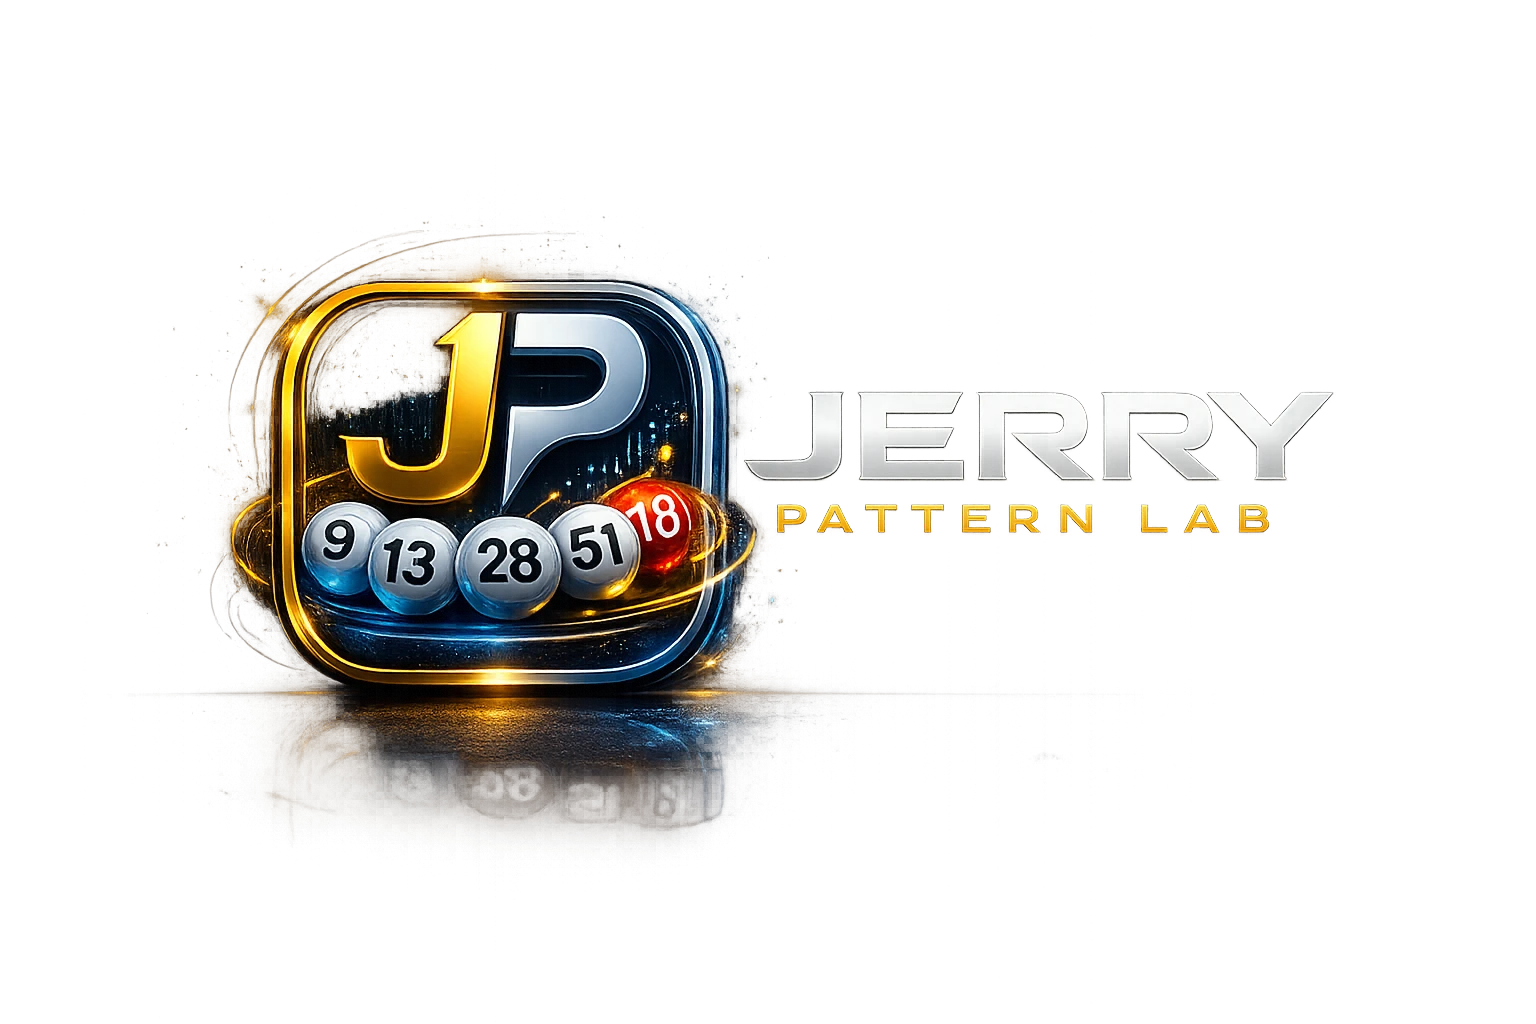
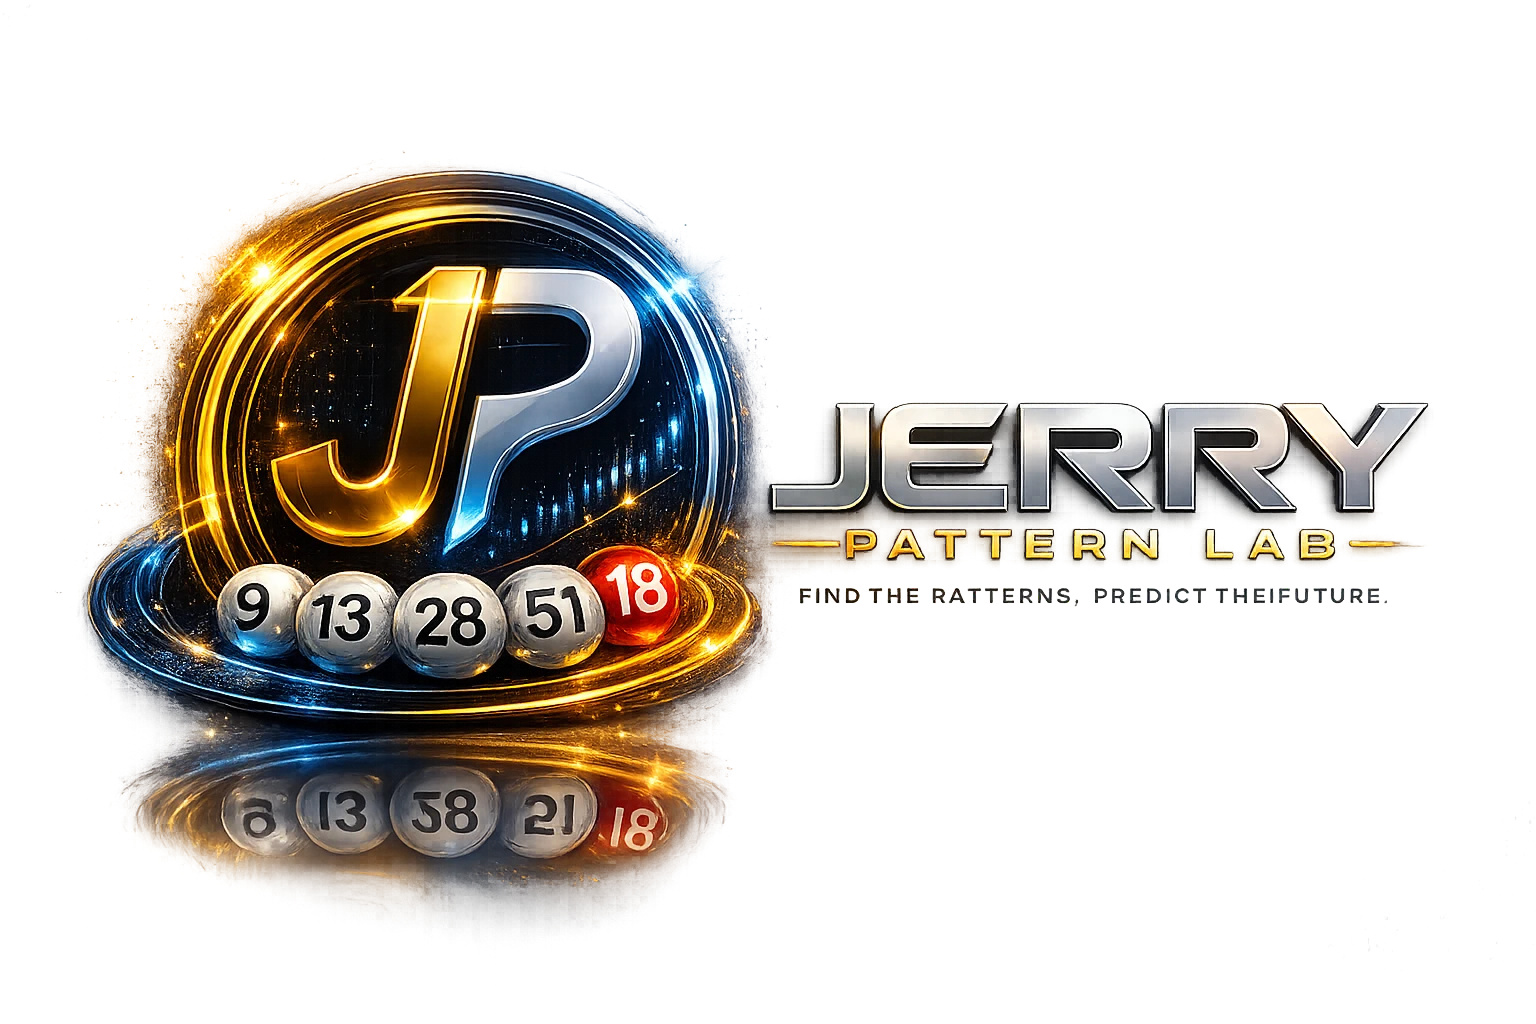
Default to analyzing everything, and take the updated brand lockup (#18)
"Which draws to analyze" now defaults to Everything, and the Settings option
list leads with it. The help text no longer argues for the other choice; it
states what the default costs — a pool stretched to cover retired rules, wider
jackpot odds, and numbers that only exist under the current matrix looking
permanently cold — and leaves the call to the reader.

The header takes the updated lockup. Its strapline is drawn in near-black for
white paper and sits under a mirrored reflection, so the header crops to the
mark itself (1523x660 of the artwork) and the welcome screen shows all of it.
Stored as supplied and with the empty margin trimmed, as before.

Claude-Session: https://claude.ai/code/session_019mMGRBF48dqBWUVrCfKtFm

Changed region(s): [[0.0312, 0.1562, 0.9375, 0.9062]]

diff --git a/src/components/dialogs.tsx b/src/components/dialogs.tsx
@@ -390,7 +390,7 @@ export function SettingsDialog({ open, onClose, settings, gameName, detectedPool
   const [bonus, setBonus] = useState<'auto' | 'yes' | 'no'>('auto')
   const [specialMax, setSpecialMax] = useState('')
   const [drawTime, setDrawTime] = useState('22:59')
-  const [eraChoice, setEraChoice] = useState<'current' | 'all'>('current')
+  const [eraChoice, setEraChoice] = useState<'current' | 'all'>('all')
 
   useEffect(() => {
     if (open) {
@@ -400,7 +400,7 @@ export function SettingsDialog({ open, onClose, settings, gameName, detectedPool
       setBonus(settings.bonus)
       setSpecialMax(settings.specialMax > 0 ? String(settings.specialMax) : '')
       setDrawTime(settings.drawTime || '22:59')
-      setEraChoice(settings.era ?? 'current')
+      setEraChoice(settings.era ?? 'all')
     }
   }, [open, settings])
 
@@ -482,11 +482,11 @@ export function SettingsDialog({ open, onClose, settings, gameName, detectedPool
         <div className="field">
           <label>Which draws to analyze</label>
           <select value={eraChoice} onChange={(e) => setEraChoice(e.target.value as 'current' | 'all')}>
-            <option value="current">
-              Current rules only — {era.kept.toLocaleString()} draws from {formatDate(era.cutoffDate)}
-            </option>
             <option value="all">
               Everything — all {(era.kept + era.excluded).toLocaleString()} draws, including older rules
+            </option>
+            <option value="current">
+              Current rules only — {era.kept.toLocaleString()} draws from {formatDate(era.cutoffDate)}
             </option>
           </select>
           <span className="help">
@@ -495,10 +495,12 @@ export function SettingsDialog({ open, onClose, settings, gameName, detectedPool
             {era.currentSpecialMax > 0 && era.earlySpecialMax !== era.currentSpecialMax
               ? `, bonus ball ${era.earlySpecialMax} → ${era.currentSpecialMax}`
               : ''}
-            . The {era.excluded.toLocaleString()} earlier draws were played under rules that no longer exist, so they
-            inflate the pool size, the jackpot odds and every frequency stat — which is usually what an
-            implausibly large "model edge" turns out to be. Nothing is deleted either way; this only chooses what the
-            model reads, and you can switch back here at any time.
+            . Everything is the default, so all {(era.kept + era.excluded).toLocaleString()} draws are analyzed.
+            Worth knowing what that costs: the {era.excluded.toLocaleString()} earlier draws were played under rules
+            that no longer exist, so the detected pool stretches to cover them — which widens the jackpot odds and
+            every expected-value figure built on them, and leaves numbers that only exist under the current rules
+            looking permanently cold. Switching to current rules only fixes that at the price of a shorter history.
+            Nothing is deleted either way; this only chooses what the model reads.
           </span>
         </div>
       )}

diff --git a/src/styles.css b/src/styles.css
@@ -167,12 +167,12 @@ input, select, textarea { font: inherit; color: var(--ink); }
 /* the horizontal lockup — the artwork carries its own wordmark, so no text sits
    beside it. It is drawn on black with a soft glow, so light mode gives it the
    dark plaque it was made for instead of bleaching its edges. */
-/* The file carries a mirrored reflection under the mark, which is right at full
-   size and a quarter of wasted height in a 48px header — so the header crops to
-   the mark itself (1199x470 of the artwork) while the welcome screen shows all
-   of it. Same asset, no second file. */
+/* Below the mark the file carries a strapline drawn for white paper and a
+   mirrored reflection — both right at full size, both illegible or wasted in a
+   48px header. So the header crops to the mark itself (1523x660 of the
+   artwork) while the welcome screen shows all of it. Same asset, no second file. */
 .brand-lockup {
-  display: block; height: 58px; width: auto; aspect-ratio: 1199 / 470;
+  display: block; height: 58px; width: auto; aspect-ratio: 1523 / 660;
   object-fit: cover; object-position: top; max-width: 100%;
 }
 :root:not([data-theme='dark']) .brand {

diff --git a/src/engine/types.ts b/src/engine/types.ts
@@ -34,8 +34,8 @@ export interface Settings {
   /** Local draw time as "HH:MM", used for the countdown when the game has no official time. */
   drawTime: string
   /**
-   * Which draws to analyze. 'current' (the default) uses only the game's
-   * current rule era; 'all' uses the whole history. Nothing is ever deleted —
+   * Which draws to analyze. 'all' (the default) uses the whole history;
+   * 'current' uses only the game's current rule era. Nothing is ever deleted —
    * this only chooses what the model sees.
    */
   era: 'current' | 'all'
@@ -49,7 +49,7 @@ export const DEFAULT_SETTINGS: Settings = {
   bonus: 'auto',
   specialMax: 0,
   drawTime: '22:59',
-  era: 'current',
+  era: 'all',
 }
 
 /** One prediction signal's normalized scores plus bookkeeping. */
